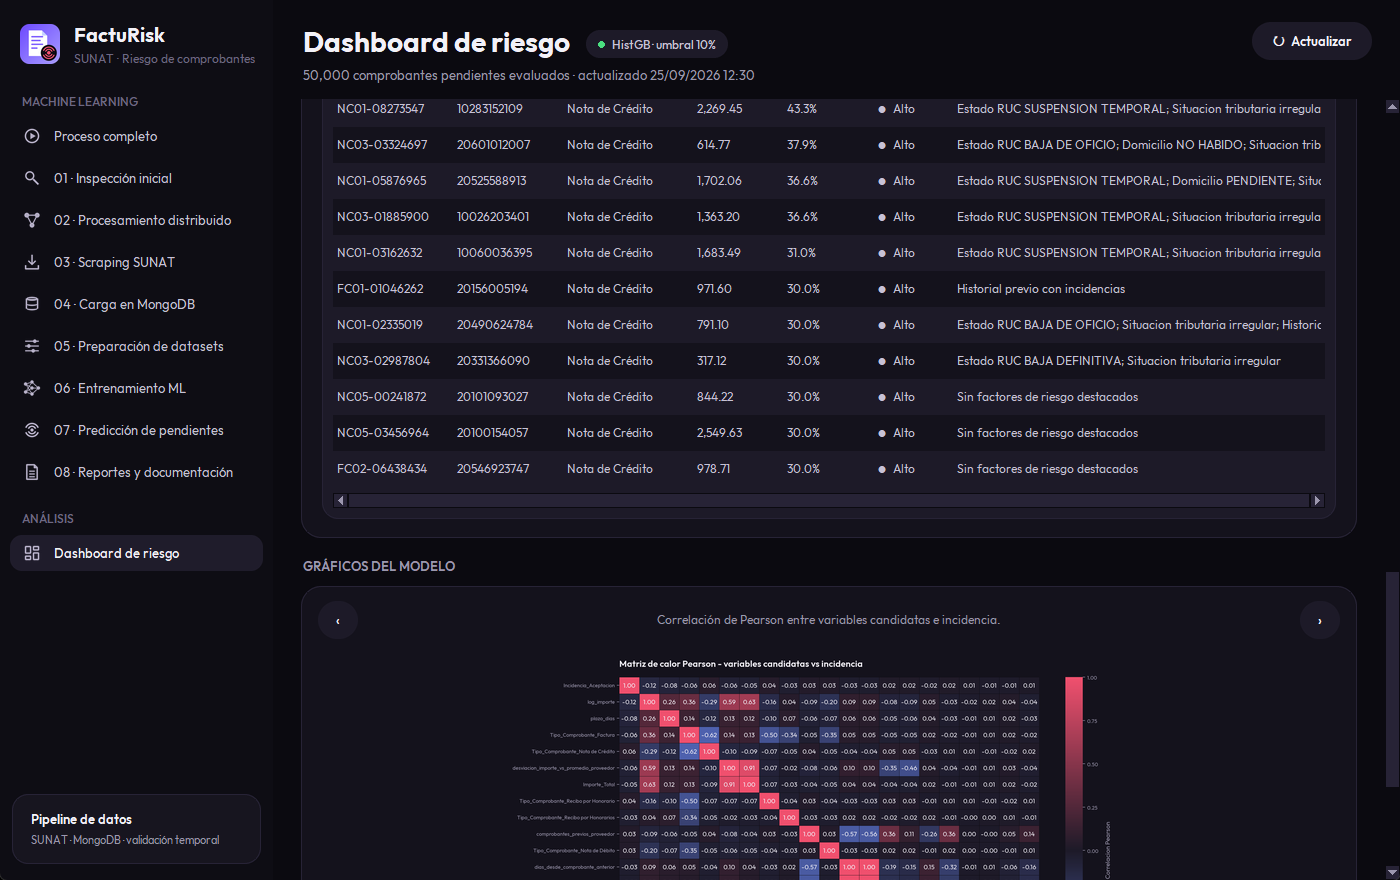
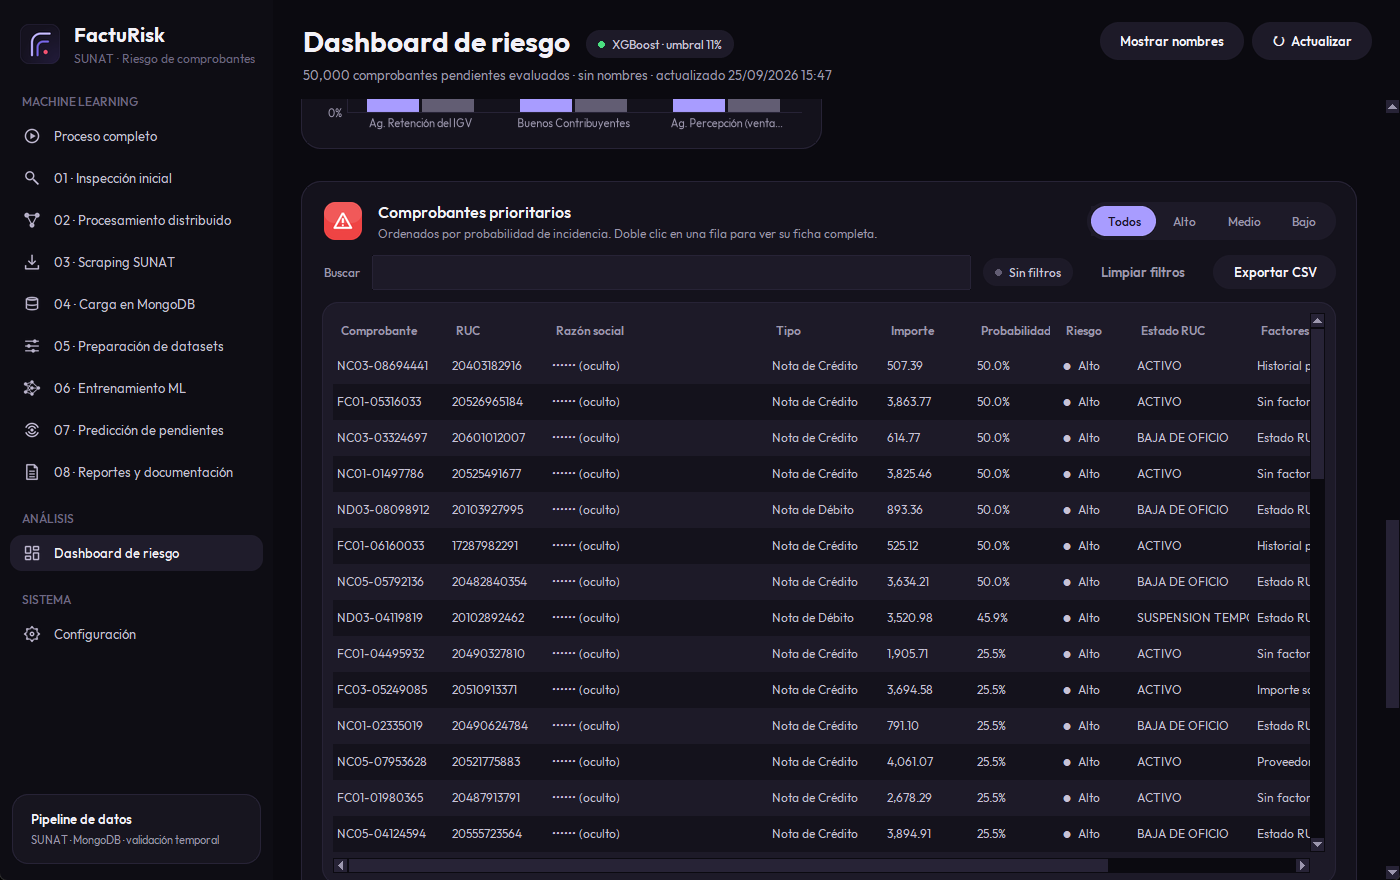
Update README, changelog, docs and screenshots

diff --git a/README.md b/README.md
@@ -31,12 +31,19 @@ Companies that process electronic invoices receive thousands of documents that e
 
 1. **Inspects** 150,000 historical invoices: types, dates, RUC validity, nulls and duplicates.
 2. **Processes the history MapReduce-style** in chunks (map → shuffle by RUC → reduce), mirroring how the job would run on Spark.
-3. **Scrapes the official SUNAT reduced registry** (a ~400 MB ZIP), detecting encoding and delimiter automatically and streaming it in chunks to keep only the suppliers in the dataset.
+3. **Scrapes the official SUNAT reduced registry** (a ~400 MB ZIP), detecting encoding and delimiter automatically and streaming it in chunks to keep only the suppliers in the dataset. Optional extra registries (retention agents, good taxpayers, perception agents) are added as 0/1 features.
 4. **Loads the tax snapshot into MongoDB** with idempotent upserts and a unique RUC index, with a local backup when MongoDB is not available.
 5. **Builds leakage-safe features**: supplier history (previous incidents, 30/90-day windows, amount deviation) computed only from earlier invoices.
 6. **Trains and compares 7 models** (Logistic Regression, Random Forest, HistGradientBoosting, XGBoost, LightGBM, CatBoost, plus a baseline) **with and without SUNAT features**, using temporal validation, probability calibration and a threshold tuned for minimum recall.
 7. **Predicts pending invoices**, assigns Low/Medium/High risk and explains the main factors of each prediction.
 8. **Reports** metrics, charts and documentation, and shows everything in a **desktop app with an interactive risk dashboard**.
+
+### Desktop app features
+
+- **Bring your own data:** import a CSV or Excel history; delimiter, encoding and columns are detected automatically, even when headers are swapped (the RUC column is found by its content). Imported data stays local.
+- **Configurable external sources:** change the SUNAT registry page, use a direct ZIP link or an already downloaded file, and choose which extra SUNAT registries become model features.
+- **MongoDB from the panel:** enter the connection (Atlas or local), test it and save it locally; it takes precedence over `.env` and is never committed.
+- **Interactive dashboard:** tooltips on every chart, click a risk level, voucher type, supplier or risk factor to filter the priority table, free-text search, CSV export and a full detail sheet per invoice. With local data it shows company names, fiscal addresses and registry flags; a *hide names* switch masks them for screenshots.
 
 ## Architecture
 
@@ -62,13 +69,13 @@ Evaluated on the most recent 20% of the invoices (chronological hold-out test se
 
 | Metric | Value | Reading |
 |---|---:|---|
-| Selected model | HistGradientBoosting + SUNAT features | Best validation PR-AUC |
-| PR-AUC | **0.122** | 1.4× the no-skill baseline (0.088 = incident rate) |
-| Recall (incidents) | **73.3%** | Share of real incidents caught |
+| Selected model | XGBoost + SUNAT features | Best validation PR-AUC |
+| PR-AUC | **0.124** | 1.4× the no-skill baseline (0.088 = incident rate) |
+| Recall (incidents) | **66.1%** | Share of real incidents caught |
 | Precision (incidents) | 12.4% | Flagged invoices that are real incidents |
-| Invoices flagged for review | 50.2% | Review effort at the chosen threshold |
+| Invoices flagged for review | 45.1% | Review effort at the chosen threshold |
 
-**Honest assessment:** the signal is real but **limited**. Reviewing the top half catches almost three out of four incidents, but precision is low, and the SUNAT features add only a small gain over supplier history alone. Those findings are documented rather than hidden. `outputs/comparacion_aporte_sunat.csv` quantifies the SUNAT contribution per model.
+**Honest assessment:** the signal is real but **limited**. Reviewing 45% of the pending invoices catches two out of three incidents, but precision is low. The SUNAT features add only a small gain over supplier history alone, and the extra registries (retention agents, good taxpayers, perception agents) have a permutation importance of practically zero on this dataset: they are kept as configurable options, not presented as an improvement. `outputs/comparacion_aporte_sunat.csv` quantifies the SUNAT contribution per model.
 
 ## Screenshots
 
@@ -77,9 +84,15 @@ Evaluated on the most recent 20% of the invoices (chronological hold-out test se
 | <img src="docs/images/ml.png" alt="Machine learning module" width="100%"> | <img src="docs/images/compacto.png" alt="Compact responsive layout" width="100%"> |
 
 <details>
-<summary>Dashboard: priority table and risk factors</summary>
+<summary>Dashboard: filterable priority table (names hidden)</summary>
 
 <img src="docs/images/dashboard_detalle.png" alt="Dashboard detail" width="100%">
+</details>
+
+<details>
+<summary>Settings: data import, SUNAT sources and MongoDB</summary>
+
+<img src="docs/images/configuracion.png" alt="Settings panel" width="100%">
 </details>
 
 ## Quick start
@@ -108,6 +121,8 @@ python main.py mongodb                     # upsert suppliers into MongoDB
 ```
 
 Each phase can also run on its own: `inspect`, `distribuido`, `scraping`, `mongodb`, `preparar`, `entrenar`, `predecir`, `documentar`.
+
+Your own data, SUNAT sources and MongoDB credentials are set from **Configuración** in the app. They are stored in `config/app_settings.json`, `config/configuracion.json` and `data/raw/local/`, all excluded from Git.
 
 ## Key technical decisions
 

diff --git a/docs/DICCIONARIO_DE_DATOS.md b/docs/DICCIONARIO_DE_DATOS.md
@@ -36,9 +36,9 @@
 
 | Columna | Tipo detectado | Ejemplo | Origen | Tratamiento | Uso en modelo | Motivo de exclusión |
 |---|---:|---|---|---|---|---|
-| `Origen` | `str` | PreRegistros | Preparación | Conservada para trazabilidad | No |  |
-| `ID_Comprobante` | `str` | F001-57022055 | Preparación | Conservada para trazabilidad | No |  |
 | `RUC_Proveedor` | `int64` | 20493434340 | Preparación | Conservada para trazabilidad | No |  |
+| `Razon_Social_Proveedor` | `str` |  | Preparación | Conservada para trazabilidad | No |  |
+| `ID_Comprobante` | `str` | F001-57022055 | Preparación | Conservada para trazabilidad | No |  |
 | `Tipo_Comprobante` | `str` | Factura | Preparación | Normalizada/derivada | Sí |  |
 | `Fecha_Creacion` | `str` | 2025-08-02 | Preparación | Conservada para trazabilidad | No |  |
 | `Fecha_Emision` | `str` | 2025-08-02 | Preparación | Conservada para trazabilidad | No |  |
@@ -46,23 +46,7 @@
 | `Fecha_Pago` | `str` | 2025-10-01 | Preparación | Conservada para trazabilidad | No | Fuga de información o resultado conocido |
 | `Moneda` | `str` | PEN | Preparación | Normalizada/derivada | Sí |  |
 | `Importe_Total` | `float64` | 1749.85 | Preparación | Normalizada/derivada | Sí |  |
-| `Estado` | `str` | Emitida | Preparación | Conservada para trazabilidad | No | Fuga de información o resultado conocido |
-| `Estado_Grupo` | `str` | Emitida / Aceptada | Preparación | Conservada para trazabilidad | No | Fuga de información o resultado conocido |
-| `Estado_Emision` | `str` | Emitida | Preparación | Conservada para trazabilidad | No | Fuga de información o resultado conocido |
 | `Estado_Aceptacion` | `str` | Aceptada | Preparación | Conservada para trazabilidad | No | Fuga de información o resultado conocido |
-| `Estado_Pago` | `str` | Pagada | Preparación | Conservada para trazabilidad | No |  |
-| `Flag_Factura` | `int64` | 1 | Preparación | Conservada para trazabilidad | No |  |
-| `Flag_Emitida` | `int64` | 1 | Preparación | Conservada para trazabilidad | No |  |
-| `Flag_Aceptada` | `int64` | 1 | Preparación | Conservada para trazabilidad | No | Fuga de información o resultado conocido |
-| `Flag_Observada` | `int64` | 0 | Preparación | Conservada para trazabilidad | No | Fuga de información o resultado conocido |
-| `Flag_Rechazada` | `int64` | 0 | Preparación | Conservada para trazabilidad | No | Fuga de información o resultado conocido |
-| `Flag_Pendiente_Pago` | `int64` | 0 | Preparación | Conservada para trazabilidad | No |  |
-| `Anio` | `int64` | 2025 | Preparación | Conservada para trazabilidad | No |  |
-| `Trimestre` | `str` | Q3 | Preparación | Conservada para trazabilidad | No |  |
-| `Mes_Num` | `int64` | 8 | Preparación | Conservada para trazabilidad | No |  |
-| `Mes` | `str` | Agosto | Preparación | Conservada para trazabilidad | No |  |
-| `Anio_Mes` | `str` | 2025-08 | Preparación | Conservada para trazabilidad | No |  |
-| `Orden_Anio_Mes` | `int64` | 202508 | Preparación | Conservada para trazabilidad | No |  |
 | `RUC` | `int64` | 20493434340 | Preparación | Conservada para trazabilidad | No |  |
 | `Razon_Social_SUNAT` | `str` |  | Preparación | Conservada para trazabilidad | No |  |
 | `Estado_RUC` | `str` | ACTIVO | Preparación | Normalizada/derivada | Sí |  |
@@ -73,6 +57,10 @@
 | `Fecha_Consulta` | `str` | 2026-09-25 | Preparación | Conservada para trazabilidad | No |  |
 | `Fuente` | `str` | SUNAT - Padrón Reducido | Preparación | Conservada para trazabilidad | No |  |
 | `SUNAT_Encontrado` | `int64` | 1 | Preparación | Normalizada/derivada | Sí |  |
+| `Es_Agente_Retencion` | `int64` | 0 | Preparación | Normalizada/derivada | Sí |  |
+| `Es_Buen_Contribuyente` | `int64` | 0 | Preparación | Normalizada/derivada | Sí |  |
+| `Es_Agente_Percepcion` | `int64` | 0 | Preparación | Normalizada/derivada | Sí |  |
+| `Es_Agente_Percepcion_VI` | `int64` | 0 | Preparación | Normalizada/derivada | Sí |  |
 | `plazo_dias` | `int64` | 60 | Preparación | Normalizada/derivada | Sí |  |
 | `mes_emision` | `int64` | 8 | Preparación | Normalizada/derivada | Sí |  |
 | `anio_emision` | `int64` | 2025 | Preparación | Normalizada/derivada | No |  |

diff --git a/docs/INTERPRETACION_RESULTADOS.md b/docs/INTERPRETACION_RESULTADOS.md
@@ -10,22 +10,22 @@ Distribución actual: {'0': 91585, '1': 8415}. El porcentaje de incidencias repo
 Si hay pocas incidencias, un modelo puede acertar muchos aceptados y aun así fallar en detectar incidencias. Por eso se priorizan recall, F1 y PR-AUC de la clase 1.
 
 ## Métricas actuales
-- Accuracy: 53.77%
-- Balanced accuracy: 62.63%
-- Precision clase 1: 12.40%
-- Recall clase 1: 73.31%
-- F1 clase 1: 21.21%
-- PR-AUC: 0,1223
-- ROC-AUC: 0,6469
-- Especificidad: 51.96%
-- MCC: 0,1408
-- Falsos positivos: 8792
-- Falsos negativos: 453
-- Umbral: 0.1
+- Accuracy: 57.64%
+- Balanced accuracy: 61.48%
+- Precision clase 1: 12.44%
+- Recall clase 1: 66.12%
+- F1 clase 1: 20.94%
+- PR-AUC: 0,1243
+- ROC-AUC: 0,6484
+- Especificidad: 56.85%
+- MCC: 0,1286
+- Falsos positivos: 7898
+- Falsos negativos: 575
+- Umbral: 0.11
 - Calibración: isotonic
 
 ## Matriz de confusión actual
-`[[9511, 8792], [453, 1244]]`
+`[[10405, 7898], [575, 1122]]`
 
 ## Gráficos
 La matriz de calor Pearson muestra la relacion lineal entre variables candidatas y la incidencia. La matriz de confusion muestra errores y aciertos con el umbral optimizado. La curva Precision-Recall muestra el intercambio entre detectar incidencias y generar alertas. La comparacion de modelos resume el rendimiento interno. El aporte SUNAT permite comparar experimentos con y sin variables tributarias.

diff --git a/CHANGELOG.md b/CHANGELOG.md
@@ -9,6 +9,20 @@ and this project adheres to [Semantic Versioning](https://semver.org/spec/v2.0.0
 
 ### Added
 
+- Settings panel: import historical data from CSV or Excel with automatic
+  delimiter, encoding and column detection (including swapped headers);
+  switch back to the demo dataset at any time.
+- Configurable SUNAT source (registry page, direct ZIP URL or local file) and
+  optional extra SUNAT registries as model features: retention agents, good
+  taxpayers and perception agents, with a public snapshot for offline runs.
+- MongoDB connection editable from the panel with a connection test; panel
+  settings take precedence over `.env` and registry flags are uploaded too.
+- Interactive dashboard: tooltips, click-to-filter charts, search, CSV export,
+  invoice detail sheet, registry risk chart and a hide-names switch. Local
+  runs show company names and fiscal addresses.
+- Tests for the importer, settings, registry parser and dashboard filters.
+- New line-art logo: an F drawn with two curved strokes and the risk dot, with
+  thicker strokes at favicon sizes; model names auto-fit their cards.
 - Redesigned desktop interface: new visual identity (logo, favicon, icon set,
   palette), responsive layout that reflows at any window size, and a risk
   dashboard module with KPIs, charts, a priority table and the model chart

diff --git a/docs/GUIA_DE_EXPOSICION.md b/docs/GUIA_DE_EXPOSICION.md
@@ -5,7 +5,7 @@ El proyecto resuelve la priorización de comprobantes electrónicos pre-registra
 
 La variable adicional más importante desde SUNAT es la situación tributaria actual, creada a partir de estado RUC activo y condición habido. MongoDB permite mantener esa información externa actualizada y consultable sin depender solo del CSV local.
 
-El modelo seleccionado actual es HistGradientBoostingClassifier con experimento B_con_sunat y umbral 0.1. El recall de incidencias es 73.31%, el F1 es 21.21% y la PR-AUC es 0,1223. La conclusión es que sirve para priorización manual, no para rechazo automático.
+El modelo seleccionado actual es XGBClassifier con experimento B_con_sunat y umbral 0.11. El recall de incidencias es 66.12%, el F1 es 20.94% y la PR-AUC es 0,1243. La conclusión es que sirve para priorización manual, no para rechazo automático.
 
 ## Exposición completa de 7 minutos
 El problema consiste en revisar comprobantes pendientes de aceptación. La solución construye un pipeline completo: inspección, scraping SUNAT, MongoDB Atlas, preparación, variables históricas sin fuga, entrenamiento con validación temporal, calibración, optimización de umbral y predicción.

diff --git a/docs/README_PROYECTO.md b/docs/README_PROYECTO.md
@@ -75,13 +75,13 @@ python .\main.py todo
 - Registros históricos: 150000
 - Registros de entrenamiento: 100000
 - Registros pendientes: 50000
-- Modelo seleccionado actualmente: HistGradientBoostingClassifier (B_con_sunat)
-- Umbral seleccionado: 0.1
-- Recall clase 1: 73.31%
-- F1 clase 1: 21.21%
-- PR-AUC: 0,1223
-- Falsos positivos: 8792
-- Falsos negativos: 453
+- Modelo seleccionado actualmente: XGBClassifier (B_con_sunat)
+- Umbral seleccionado: 0.11
+- Recall clase 1: 66.12%
+- F1 clase 1: 20.94%
+- PR-AUC: 0,1243
+- Falsos positivos: 7898
+- Falsos negativos: 575
 - Confiabilidad: Limitada
 
 ## Uso recomendado

diff --git a/docs/HISTORIAL_DE_CAMBIOS.md b/docs/HISTORIAL_DE_CAMBIOS.md
@@ -5,7 +5,7 @@
 - Se incorporó archivo de contexto para otra IA.
 - Se agregó soporte de rutas portables.
 - Se creó verificación inicial.
-- Se mantuvo el modelo activo actual: HistGradientBoostingClassifier (B_con_sunat).
+- Se mantuvo el modelo activo actual: XGBClassifier (B_con_sunat).
 - Se conserva la comparación interna de modelos durante el entrenamiento.
 - Se documentó la incorporación de variables SUNAT.
 - Se documentó la creación de variables históricas sin fuga.
